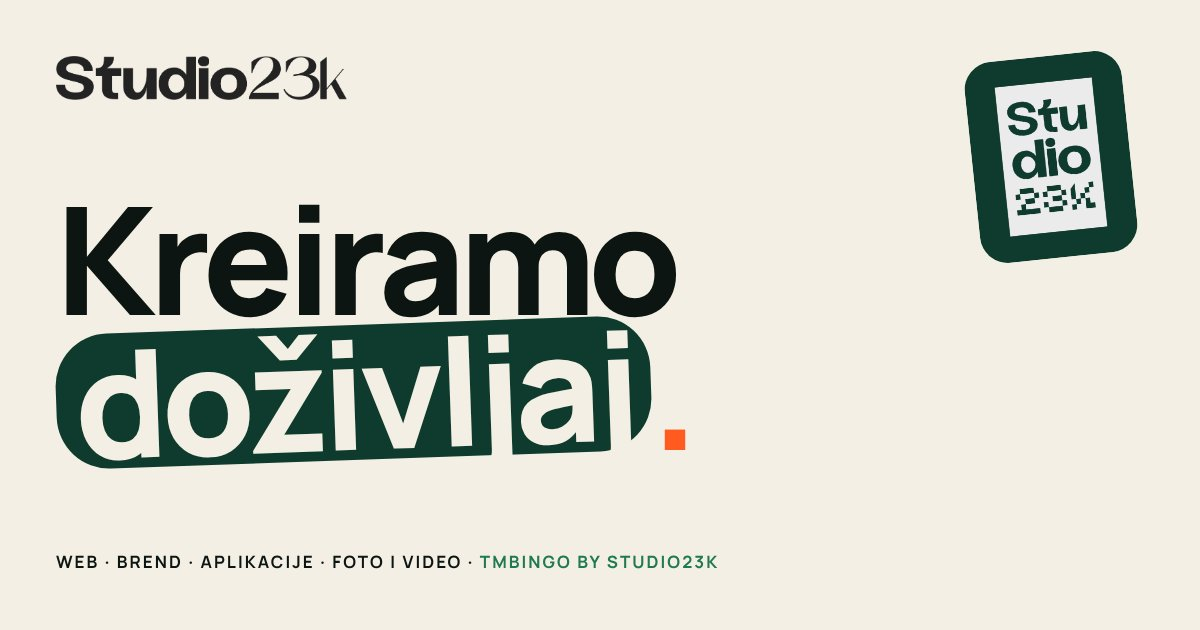
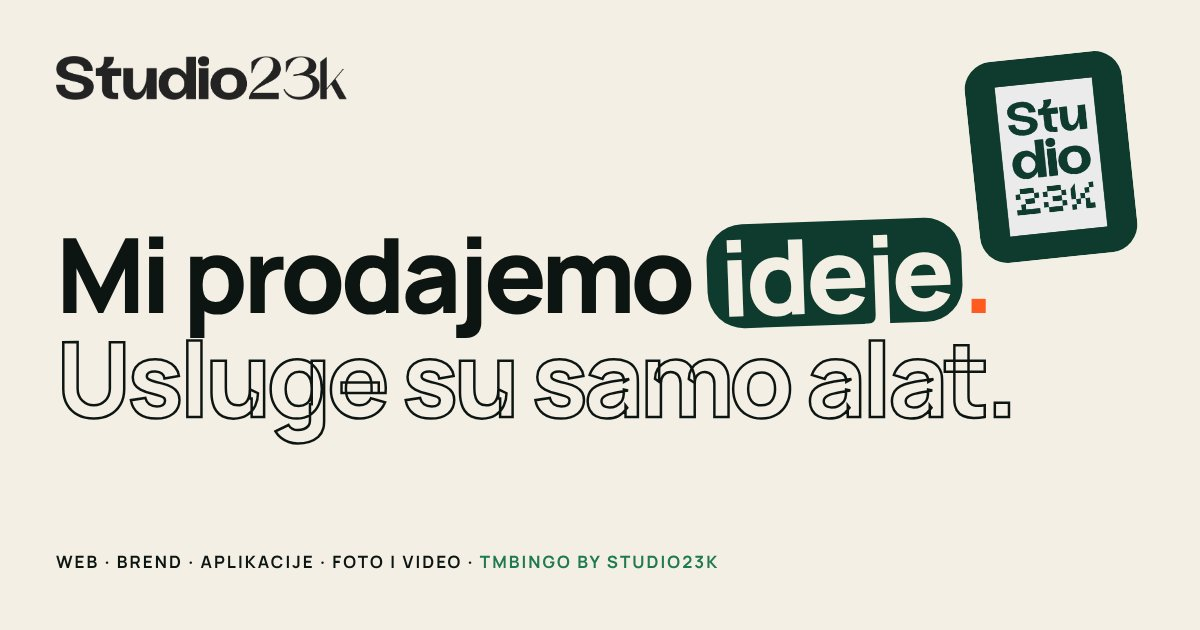
Hero sa sloganom: Mi prodajemo ideje. Usluge su samo alat.
Claude-Session: https://claude.ai/code/session_01474iP77zAkUBribEgQ7o8A

Changed region(s): [[0.0308, 0.3016, 0.8633, 0.754]]

diff --git a/izvor/shots.js b/izvor/shots.js
@@ -16,7 +16,7 @@ const srv = http.createServer((q, r) => { let p = decodeURIComponent(q.url.split
   await p0.waitForTimeout(300);
   await p0.screenshot({ path: path.join(root, 'assets/favicon.png') });
   await p0.setViewportSize({ width: 1200, height: 630 });
-  await p0.setContent(`<link rel="stylesheet" href="http://localhost:8765/assets/fonts/fonts.css"><style>html,body{margin:0}body{width:1200px;height:630px;background:#f4efe4;color:#0d1512;position:relative;overflow:hidden}main{position:absolute;inset:56px;display:grid;grid-template-rows:auto 1fr auto}p{margin:0;font:700 17px/1.4 Manrope;letter-spacing:.12em;text-transform:uppercase}h1{margin:0;align-self:center;font:800 150px/.9 Manrope;letter-spacing:-.045em}em{font-style:normal;background:#0f3b2e;color:#f4efe4;padding:0 .12em;border-radius:.35em;display:inline-block;transform:rotate(-2deg)}b{color:#ff5a1f}.s{position:absolute;right:70px;top:56px;height:150px;padding:26px 30px;background:#0f3b2e;border-radius:28px;transform:rotate(-6deg)}.lg{height:44px}.g{color:#1f7a52}</style><img class="s" src="http://localhost:8765/assets/logo-icon.png"><main><p><img class="lg" src="http://localhost:8765/assets/logo.png"></p><h1>Kreiramo<br><em>doživljaj</em><b>.</b></h1><p>Web · Brend · Aplikacije · Foto i video · <span class="g">TMBingo by Studio23k</span></p></main>`);
+  await p0.setContent(`<link rel="stylesheet" href="http://localhost:8765/assets/fonts/fonts.css"><style>html,body{margin:0}body{width:1200px;height:630px;background:#f4efe4;color:#0d1512;position:relative;overflow:hidden}main{position:absolute;inset:56px;display:grid;grid-template-rows:auto 1fr auto}p{margin:0;font:700 17px/1.4 Manrope;letter-spacing:.12em;text-transform:uppercase}h1{margin:0;align-self:center;font:800 104px/1 Manrope;letter-spacing:-.045em}h1 span{color:transparent;-webkit-text-stroke:2.5px #0d1512}em{font-style:normal;background:#0f3b2e;color:#f4efe4;padding:0 .12em;border-radius:.35em;display:inline-block;transform:rotate(-2deg)}b{color:#ff5a1f}.s{position:absolute;right:70px;top:56px;height:150px;padding:26px 30px;background:#0f3b2e;border-radius:28px;transform:rotate(-6deg)}.lg{height:44px}.g{color:#1f7a52}</style><img class="s" src="http://localhost:8765/assets/logo-icon.png"><main><p><img class="lg" src="http://localhost:8765/assets/logo.png"></p><h1>Mi prodajemo <em>ideje</em><b>.</b><br><span>Usluge su samo alat.</span></h1><p>Web · Brend · Aplikacije · Foto i video · <span class="g">TMBingo by Studio23k</span></p></main>`);
   await p0.waitForTimeout(800);
   await p0.screenshot({ path: path.join(root, 'assets/og-image.jpg'), type: 'jpeg', quality: 85 });
   for (const [u, n] of [['/', 'naslovna'], ['/tmbingo/', 'tmbingo'], ['/radovi/', 'radovi']]) {

diff --git a/index.html b/index.html
@@ -18,7 +18,7 @@
 <link rel="icon" type="image/png" href="/assets/favicon.png">
 <link rel="apple-touch-icon" href="/assets/apple-touch-icon.png">
 <link rel="stylesheet" href="/assets/fonts/fonts.css">
-<link rel="stylesheet" href="/assets/studio.css?v=7">
+<link rel="stylesheet" href="/assets/studio.css?v=8">
 <script>(function(){var d=document.documentElement;try{var s=localStorage.getItem('s23k-tema');if(s)d.dataset.theme=s;if(sessionStorage.getItem('s23k-pre'))d.classList.add('no-pre');sessionStorage.setItem('s23k-pre','1')}catch(e){}})();</script>
 <script type="application/ld+json">
 [
@@ -27,7 +27,7 @@
   "@type": "ProfessionalService",
   "@id": "https://studio23k.eu/#studio",
   "name": "Studio23k",
-  "slogan": "Kreiramo doživljaj",
+  "slogan": "Mi prodajemo ideje. Usluge su samo alat.",
   "description": "Kreativni i digitalni studio iz Zadra za veće projekte: web platforme i trgovine po mjeri, web aplikacije, brend identitet, foto i video te kampanje. Paket za male firme je TMBingo by Studio23k.",
   "url": "https://studio23k.eu/",
   "logo": "https://studio23k.eu/assets/apple-touch-icon.png",
@@ -158,9 +158,10 @@
   <figure class="float f3" data-float="-0.06"><img src="/assets/radovi/frida.jpg" alt="" width="1200" height="900"></figure>
   <div class="stk round s1" style="rotate:-12deg" aria-hidden="true"><svg viewBox="0 0 128 128"><defs><path id="cs1" d="M64,64 m-48,0 a48,48 0 1,1 96,0 a48,48 0 1,1 -96,0"/></defs><text><textPath href="#cs1">iz zadra s ljubavlju · iz zadra s ljubavlju · </textPath></text></svg><b>23k</b></div>
   <div class="stk tape s2" aria-hidden="true">Figma prije koda :P</div>
-  <h1><span class="l"><span>Kreiramo</span></span><span class="l"><span><em>doživljaj</em><span class="o">.</span></span></span></h1>
+  <p class="kick rv">Digitalni koncept partner za <i>vizionare</i> :)</p>
+  <h1><span class="l"><span>Mi prodajemo <em>ideje</em><span class="o">.</span></span></span><span class="l"><span class="b2">Usluge su samo alat.</span></span></h1>
   <div class="sub">
-    <p>Digitalni studio iz Zadra za projekte kojima ne treba predložak, nego netko tko će ih stvarno razumjeti.</p>
+    <p>Dajemo vam strategiju, doživljaj i hrabrost za rast. Web, brend, aplikacije, foto i video su samo alati kojima vašu ideju pretvaramo u nešto stvarno.</p>
     <div class="acts"><a class="pill o" href="#radovi">Pogledajte radove <span class="ar">↓</span></a><a class="pill line" href="/tmbingo/">Mala firma? TMBingo</a></div>
   </div>
 </section>

diff --git a/assets/studio.css b/assets/studio.css
@@ -78,7 +78,7 @@ img, video { display: block; max-width: 100%; }
 
 /* Hero */
 .hero { position: relative; min-height: 100svh; padding: 130px var(--gx) 40px; display: grid; align-content: center; overflow: hidden; }
-.hero h1 { position: relative; z-index: 2; font: 700 clamp(40px, 12.4vw, 220px)/.92 var(--mark); letter-spacing: -.04em; }
+.hero h1 { position: relative; z-index: 2; font: 700 clamp(44px, 8.6vw, 156px)/.98 var(--mark); letter-spacing: -.04em; }
 .hero h1 .l { display: block; overflow: hidden; padding-bottom: .16em; margin-bottom: -.1em; }
 .hero h1 .l > span { display: inline-block; transform: translateY(105%); animation: up 1s cubic-bezier(.2,.8,.2,1) forwards; }
 .hero h1 .l:nth-child(2) > span { animation-delay: .12s; }
@@ -430,3 +430,14 @@ html.no-pre .pre { display: none; }
 .ft .big .lg { width: 100%; }
 .ft .big { overflow: visible; line-height: 0; }
 .pre b .lg { color: var(--cream); }
+
+/* Hero: "Mi prodajemo ideje. Usluge su samo alat." */
+.hero .kick { position: relative; z-index: 2; display: inline-block; margin-bottom: 26px; padding: 10px 18px; border-radius: 999px; background: var(--sun); color: var(--ink); font: 700 clamp(15px, 1.3vw, 19px)/1.2 var(--body); rotate: -2deg; }
+.hero .kick i { font-family: Georgia, "Times New Roman", serif; font-weight: 400; font-size: 1.12em; }
+.hero h1 .b2 { display: inline-block; color: transparent; -webkit-text-stroke: 2px var(--fg); transform: translateY(105%); animation: up 1s .12s cubic-bezier(.2,.8,.2,1) forwards; }
+@media (prefers-reduced-motion: reduce) { .hero h1 .b2 { animation: none; transform: none; } }
+@media (max-width: 600px) { .hero h1 .b2 { -webkit-text-stroke-width: 1.5px; } }
+.hero .kick { width: fit-content; justify-self: start; align-self: start; }
+.hero h1 .b2 { letter-spacing: 0; }
+@media (max-width: 700px) { .hero .s1 { display: none; } }
+.hero h1 .l:first-child { margin-bottom: 0; }

diff --git a/tmbingo/index.html b/tmbingo/index.html
@@ -18,7 +18,7 @@
 <link rel="icon" type="image/png" href="/assets/favicon.png">
 <link rel="apple-touch-icon" href="/assets/apple-touch-icon.png">
 <link rel="stylesheet" href="/assets/fonts/fonts.css">
-<link rel="stylesheet" href="/assets/studio.css?v=7">
+<link rel="stylesheet" href="/assets/studio.css?v=8">
 <script>(function(){var d=document.documentElement;try{var s=localStorage.getItem('s23k-tema');if(s)d.dataset.theme=s;if(sessionStorage.getItem('s23k-pre'))d.classList.add('no-pre');sessionStorage.setItem('s23k-pre','1')}catch(e){}})();</script>
 <script type="application/ld+json">
 [
@@ -27,7 +27,7 @@
   "@type": "ProfessionalService",
   "@id": "https://studio23k.eu/#studio",
   "name": "Studio23k",
-  "slogan": "Kreiramo doživljaj",
+  "slogan": "Mi prodajemo ideje. Usluge su samo alat.",
   "description": "Kreativni i digitalni studio iz Zadra za veće projekte: web platforme i trgovine po mjeri, web aplikacije, brend identitet, foto i video te kampanje. Paket za male firme je TMBingo by Studio23k.",
   "url": "https://studio23k.eu/",
   "logo": "https://studio23k.eu/assets/apple-touch-icon.png",

diff --git a/upit/index.html b/upit/index.html
@@ -18,7 +18,7 @@
 <link rel="icon" type="image/png" href="/assets/favicon.png">
 <link rel="apple-touch-icon" href="/assets/apple-touch-icon.png">
 <link rel="stylesheet" href="/assets/fonts/fonts.css">
-<link rel="stylesheet" href="/assets/studio.css?v=7">
+<link rel="stylesheet" href="/assets/studio.css?v=8">
 <script>(function(){var d=document.documentElement;try{var s=localStorage.getItem('s23k-tema');if(s)d.dataset.theme=s;if(sessionStorage.getItem('s23k-pre'))d.classList.add('no-pre');sessionStorage.setItem('s23k-pre','1')}catch(e){}})();</script>
 <script type="application/ld+json">
 [
@@ -27,7 +27,7 @@
   "@type": "ProfessionalService",
   "@id": "https://studio23k.eu/#studio",
   "name": "Studio23k",
-  "slogan": "Kreiramo doživljaj",
+  "slogan": "Mi prodajemo ideje. Usluge su samo alat.",
   "description": "Kreativni i digitalni studio iz Zadra za veće projekte: web platforme i trgovine po mjeri, web aplikacije, brend identitet, foto i video te kampanje. Paket za male firme je TMBingo by Studio23k.",
   "url": "https://studio23k.eu/",
   "logo": "https://studio23k.eu/assets/apple-touch-icon.png",

diff --git a/usluge/brend-identitet/index.html b/usluge/brend-identitet/index.html
@@ -18,7 +18,7 @@
 <link rel="icon" type="image/png" href="/assets/favicon.png">
 <link rel="apple-touch-icon" href="/assets/apple-touch-icon.png">
 <link rel="stylesheet" href="/assets/fonts/fonts.css">
-<link rel="stylesheet" href="/assets/studio.css?v=7">
+<link rel="stylesheet" href="/assets/studio.css?v=8">
 <script>(function(){var d=document.documentElement;try{var s=localStorage.getItem('s23k-tema');if(s)d.dataset.theme=s;if(sessionStorage.getItem('s23k-pre'))d.classList.add('no-pre');sessionStorage.setItem('s23k-pre','1')}catch(e){}})();</script>
 <script type="application/ld+json">
 [
@@ -27,7 +27,7 @@
   "@type": "ProfessionalService",
   "@id": "https://studio23k.eu/#studio",
   "name": "Studio23k",
-  "slogan": "Kreiramo doživljaj",
+  "slogan": "Mi prodajemo ideje. Usluge su samo alat.",
   "description": "Kreativni i digitalni studio iz Zadra za veće projekte: web platforme i trgovine po mjeri, web aplikacije, brend identitet, foto i video te kampanje. Paket za male firme je TMBingo by Studio23k.",
   "url": "https://studio23k.eu/",
   "logo": "https://studio23k.eu/assets/apple-touch-icon.png",

diff --git a/usluge/foto-video/index.html b/usluge/foto-video/index.html
@@ -18,7 +18,7 @@
 <link rel="icon" type="image/png" href="/assets/favicon.png">
 <link rel="apple-touch-icon" href="/assets/apple-touch-icon.png">
 <link rel="stylesheet" href="/assets/fonts/fonts.css">
-<link rel="stylesheet" href="/assets/studio.css?v=7">
+<link rel="stylesheet" href="/assets/studio.css?v=8">
 <script>(function(){var d=document.documentElement;try{var s=localStorage.getItem('s23k-tema');if(s)d.dataset.theme=s;if(sessionStorage.getItem('s23k-pre'))d.classList.add('no-pre');sessionStorage.setItem('s23k-pre','1')}catch(e){}})();</script>
 <script type="application/ld+json">
 [
@@ -27,7 +27,7 @@
   "@type": "ProfessionalService",
   "@id": "https://studio23k.eu/#studio",
   "name": "Studio23k",
-  "slogan": "Kreiramo doživljaj",
+  "slogan": "Mi prodajemo ideje. Usluge su samo alat.",
   "description": "Kreativni i digitalni studio iz Zadra za veće projekte: web platforme i trgovine po mjeri, web aplikacije, brend identitet, foto i video te kampanje. Paket za male firme je TMBingo by Studio23k.",
   "url": "https://studio23k.eu/",
   "logo": "https://studio23k.eu/assets/apple-touch-icon.png",

diff --git a/usluge/index.html b/usluge/index.html
@@ -18,7 +18,7 @@
 <link rel="icon" type="image/png" href="/assets/favicon.png">
 <link rel="apple-touch-icon" href="/assets/apple-touch-icon.png">
 <link rel="stylesheet" href="/assets/fonts/fonts.css">
-<link rel="stylesheet" href="/assets/studio.css?v=7">
+<link rel="stylesheet" href="/assets/studio.css?v=8">
 <script>(function(){var d=document.documentElement;try{var s=localStorage.getItem('s23k-tema');if(s)d.dataset.theme=s;if(sessionStorage.getItem('s23k-pre'))d.classList.add('no-pre');sessionStorage.setItem('s23k-pre','1')}catch(e){}})();</script>
 <script type="application/ld+json">
 [
@@ -27,7 +27,7 @@
   "@type": "ProfessionalService",
   "@id": "https://studio23k.eu/#studio",
   "name": "Studio23k",
-  "slogan": "Kreiramo doživljaj",
+  "slogan": "Mi prodajemo ideje. Usluge su samo alat.",
   "description": "Kreativni i digitalni studio iz Zadra za veće projekte: web platforme i trgovine po mjeri, web aplikacije, brend identitet, foto i video te kampanje. Paket za male firme je TMBingo by Studio23k.",
   "url": "https://studio23k.eu/",
   "logo": "https://studio23k.eu/assets/apple-touch-icon.png",

diff --git a/usluge/kampanje-tisak/index.html b/usluge/kampanje-tisak/index.html
@@ -18,7 +18,7 @@
 <link rel="icon" type="image/png" href="/assets/favicon.png">
 <link rel="apple-touch-icon" href="/assets/apple-touch-icon.png">
 <link rel="stylesheet" href="/assets/fonts/fonts.css">
-<link rel="stylesheet" href="/assets/studio.css?v=7">
+<link rel="stylesheet" href="/assets/studio.css?v=8">
 <script>(function(){var d=document.documentElement;try{var s=localStorage.getItem('s23k-tema');if(s)d.dataset.theme=s;if(sessionStorage.getItem('s23k-pre'))d.classList.add('no-pre');sessionStorage.setItem('s23k-pre','1')}catch(e){}})();</script>
 <script type="application/ld+json">
 [
@@ -27,7 +27,7 @@
   "@type": "ProfessionalService",
   "@id": "https://studio23k.eu/#studio",
   "name": "Studio23k",
-  "slogan": "Kreiramo doživljaj",
+  "slogan": "Mi prodajemo ideje. Usluge su samo alat.",
   "description": "Kreativni i digitalni studio iz Zadra za veće projekte: web platforme i trgovine po mjeri, web aplikacije, brend identitet, foto i video te kampanje. Paket za male firme je TMBingo by Studio23k.",
   "url": "https://studio23k.eu/",
   "logo": "https://studio23k.eu/assets/apple-touch-icon.png",

diff --git a/usluge/odrzavanje/index.html b/usluge/odrzavanje/index.html
@@ -18,7 +18,7 @@
 <link rel="icon" type="image/png" href="/assets/favicon.png">
 <link rel="apple-touch-icon" href="/assets/apple-touch-icon.png">
 <link rel="stylesheet" href="/assets/fonts/fonts.css">
-<link rel="stylesheet" href="/assets/studio.css?v=7">
+<link rel="stylesheet" href="/assets/studio.css?v=8">
 <script>(function(){var d=document.documentElement;try{var s=localStorage.getItem('s23k-tema');if(s)d.dataset.theme=s;if(sessionStorage.getItem('s23k-pre'))d.classList.add('no-pre');sessionStorage.setItem('s23k-pre','1')}catch(e){}})();</script>
 <script type="application/ld+json">
 [
@@ -27,7 +27,7 @@
   "@type": "ProfessionalService",
   "@id": "https://studio23k.eu/#studio",
   "name": "Studio23k",
-  "slogan": "Kreiramo doživljaj",
+  "slogan": "Mi prodajemo ideje. Usluge su samo alat.",
   "description": "Kreativni i digitalni studio iz Zadra za veće projekte: web platforme i trgovine po mjeri, web aplikacije, brend identitet, foto i video te kampanje. Paket za male firme je TMBingo by Studio23k.",
   "url": "https://studio23k.eu/",
   "logo": "https://studio23k.eu/assets/apple-touch-icon.png",

diff --git a/usluge/seo-ai-vidljivost/index.html b/usluge/seo-ai-vidljivost/index.html
@@ -18,7 +18,7 @@
 <link rel="icon" type="image/png" href="/assets/favicon.png">
 <link rel="apple-touch-icon" href="/assets/apple-touch-icon.png">
 <link rel="stylesheet" href="/assets/fonts/fonts.css">
-<link rel="stylesheet" href="/assets/studio.css?v=7">
+<link rel="stylesheet" href="/assets/studio.css?v=8">
 <script>(function(){var d=document.documentElement;try{var s=localStorage.getItem('s23k-tema');if(s)d.dataset.theme=s;if(sessionStorage.getItem('s23k-pre'))d.classList.add('no-pre');sessionStorage.setItem('s23k-pre','1')}catch(e){}})();</script>
 <script type="application/ld+json">
 [
@@ -27,7 +27,7 @@
   "@type": "ProfessionalService",
   "@id": "https://studio23k.eu/#studio",
   "name": "Studio23k",
-  "slogan": "Kreiramo doživljaj",
+  "slogan": "Mi prodajemo ideje. Usluge su samo alat.",
   "description": "Kreativni i digitalni studio iz Zadra za veće projekte: web platforme i trgovine po mjeri, web aplikacije, brend identitet, foto i video te kampanje. Paket za male firme je TMBingo by Studio23k.",
   "url": "https://studio23k.eu/",
   "logo": "https://studio23k.eu/assets/apple-touch-icon.png",

diff --git a/usluge/web-aplikacije/index.html b/usluge/web-aplikacije/index.html
@@ -18,7 +18,7 @@
 <link rel="icon" type="image/png" href="/assets/favicon.png">
 <link rel="apple-touch-icon" href="/assets/apple-touch-icon.png">
 <link rel="stylesheet" href="/assets/fonts/fonts.css">
-<link rel="stylesheet" href="/assets/studio.css?v=7">
+<link rel="stylesheet" href="/assets/studio.css?v=8">
 <script>(function(){var d=document.documentElement;try{var s=localStorage.getItem('s23k-tema');if(s)d.dataset.theme=s;if(sessionStorage.getItem('s23k-pre'))d.classList.add('no-pre');sessionStorage.setItem('s23k-pre','1')}catch(e){}})();</script>
 <script type="application/ld+json">
 [
@@ -27,7 +27,7 @@
   "@type": "ProfessionalService",
   "@id": "https://studio23k.eu/#studio",
   "name": "Studio23k",
-  "slogan": "Kreiramo doživljaj",
+  "slogan": "Mi prodajemo ideje. Usluge su samo alat.",
   "description": "Kreativni i digitalni studio iz Zadra za veće projekte: web platforme i trgovine po mjeri, web aplikacije, brend identitet, foto i video te kampanje. Paket za male firme je TMBingo by Studio23k.",
   "url": "https://studio23k.eu/",
   "logo": "https://studio23k.eu/assets/apple-touch-icon.png",
